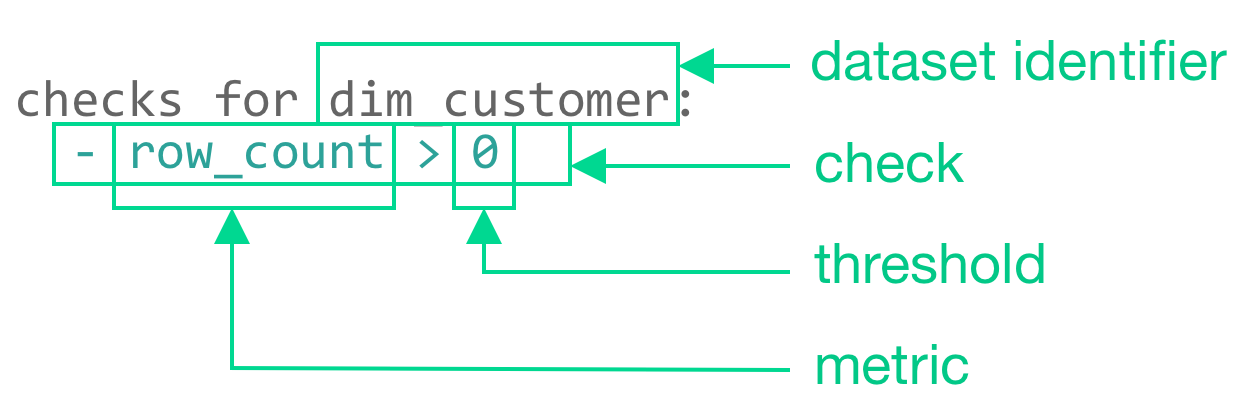
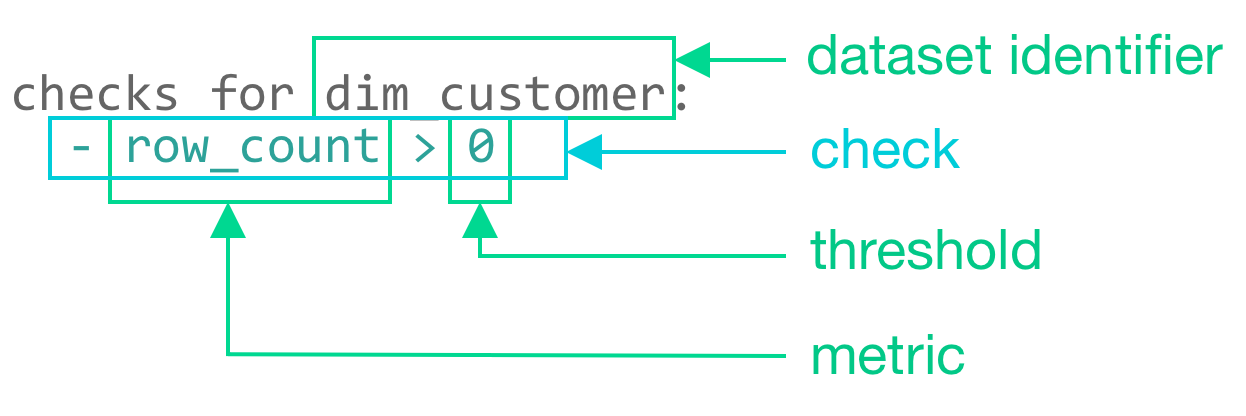
Update details about cross checks. Correct diagrams for metrics and checks.

Changed region(s): [[0.0, 0.0625, 1.0, 0.9375]]

diff --git a/soda-cl/cross-row-checks.md b/soda-cl/cross-row-checks.md
@@ -1,7 +1,7 @@
 ---
 layout: default
 title: Cross checks
-description: Use a SodaCL (Beta) row count checks to validate the number of rows in a table. Compare row counts across tables or data sources.
+description: Use a SodaCL (Beta) cross check to compare row counts across datasets in the same, or different, data sources.
 parent: SodaCL (Beta)
 redirect_from: /soda-cl/row-count.html
 ---
@@ -39,8 +39,6 @@ checks for dim_customer:
 
 You can use cross checks to compare row counts between datasets in different data sources, as in the example below. 
 
-If you wish to compare row counts of datasets in different data sources, you must have configured a connection to both data sources in your <a href="https://docs.soda.io/soda-core/first-scan.html#the-configuration-yaml-file" target="_blank"> configuration YAML file</a>. Soda needs access to both data sources in order to execute a cross check between data sources. 
-
 In the example, `retail_customers` is the name of the other dataset, and `aws_postgres_retail` is the name of the data source in which `retail_customers` exists.
 
 ```yaml
@@ -48,6 +46,8 @@ checks for dim_customer:
   - row_count same as retail_customers in aws_postgres_retail
 ```
 
+* If you wish to compare row counts of datasets in different data sources, you must have configured a connection to both data sources in your <a href="https://docs.soda.io/soda-core/first-scan.html#the-configuration-yaml-file" target="_blank"> configuration YAML file</a>. Soda needs access to both data sources in order to execute a cross check between data sources. 
+* The data sources do not need to be the same type; you can compare a dataset in a PostgreSQL data source to a dataset in a BigQuery data source.
 
 ## Optional check configurations
 

diff --git a/soda-cl/metrics-and-checks.md b/soda-cl/metrics-and-checks.md
@@ -82,7 +82,7 @@ A **standard** check, as illustrated above with `row_count`, uses a language pat
 
 Some checks that you write with SodaCL do not use metrics and thresholds, and instead follow **unique patterns** relevant to the data quality parameters they check. Each unique check type has its own documentation.
 
-For example, a check that validates that the values in a column in one dataset match exactly with the values in another column in another dataset uses a unique pattern.
+For example, a reference check that validates that the values in a column in one dataset match exactly with the values in another column in another dataset uses a unique pattern.
 
 ```yaml
 checks for dim_employees_dev:
@@ -97,7 +97,7 @@ checks for dim_employees_dev:
     distribution<br />
     freshness<br />
     reference<br />
-    row count cross-check<br />
+    cross<br />
     schema<br />
 </details>
 
@@ -117,10 +117,8 @@ checks for customers:
 
 <details>
     <summary>Quick view of user-defined check types</summary>
-    failed rows using common table expression<br />
-    failed rows using SQL query<br />
-    user-defined metric using common table expression<br />
-    user-defined metric using SQL query<br />
+    failed rows<br />
+    user-defined<br />
 
 </details>
 
